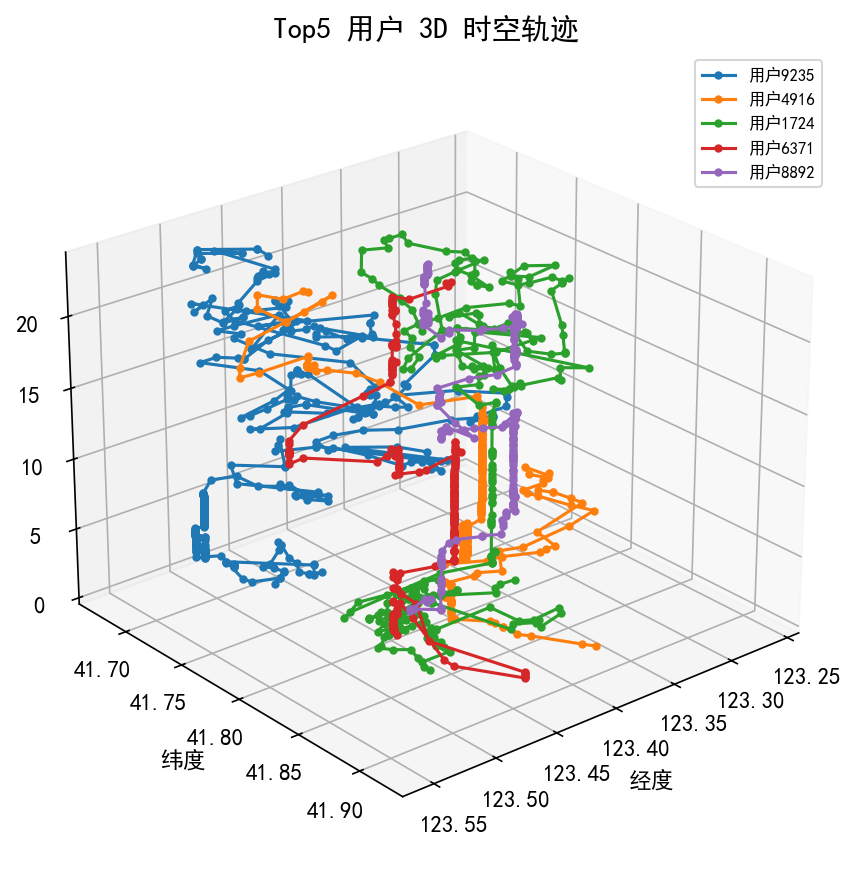
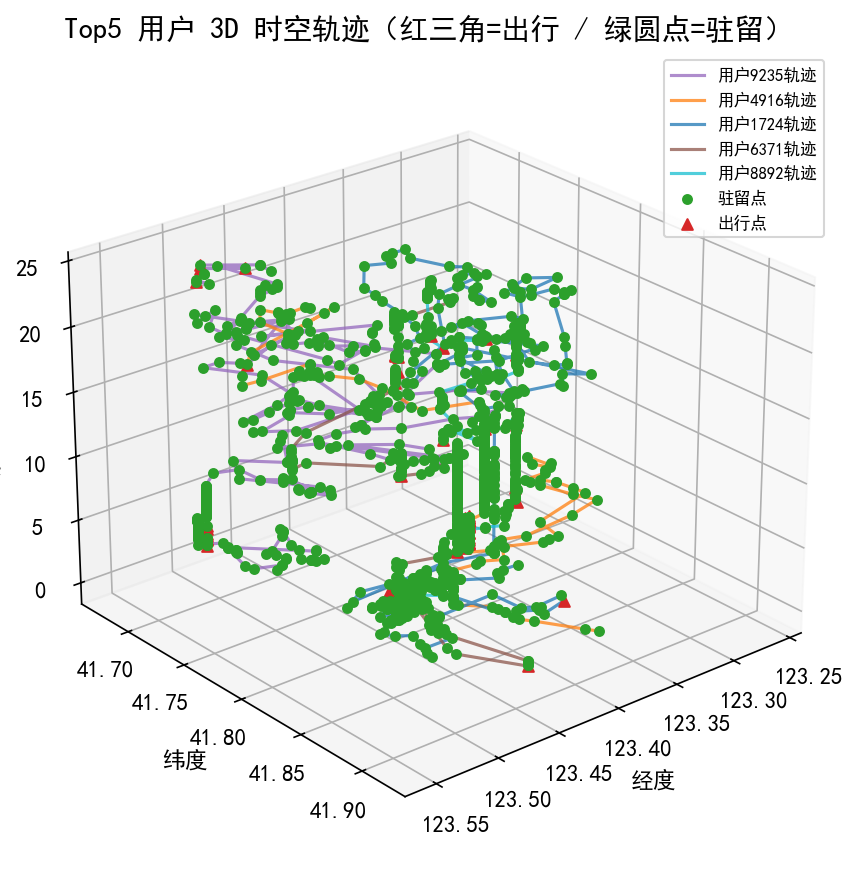
feat(图): 三张图对齐老师示例画法
图2 上下两格改为同轴叠画（出行量级只有驻留 1/24，另加右上角放大格看形状）；
图5 色标从按行各自归一化改回绝对人次，商圈间十几倍的差距不再被抹平；
图6 按标签分标记（红三角=出行/绿圆点=驻留），连线只按用户分色。

diff --git a/visualize.py b/visualize.py
@@ -6,10 +6,10 @@ visualize.py —— 六张结果可视化（课时 55~56）
 生成六张必交 PNG，外加两张附加 PNG。
 
   1 fig_stage3_pie    出行/驻留占比      —— 一天里移动点和停留点各占多少
-  2 fig_hour_line     24 小时上下两格    —— 出行/驻留随时间如何变化（含早晚高峰底纹）
+  2 fig_hour_line     24 小时同轴叠画    —— 出行/驻留随时间如何变化（含早晚高峰底纹）
   3 fig_purpose_bar   出行目的柱状       —— 停留都在干什么
   4 fig_mode_bar      出行方式柱状       —— 出行都怎么去
-  5 fig_heatmap       商圈×24h 热力矩阵  —— 哪里、什么时间最拥挤（色标按行归一化）
+  5 fig_heatmap       商圈×24h 热力矩阵  —— 哪里、什么时间最拥挤（按绝对人次上色）
   6 fig_3d_traj       Top5 用户 3D 轨迹  —— 个体一天的时空轨迹长什么样
 
   + fig_stage2_clusters 某用户的簇划分 + 阶段3 判定 —— 六张必交图里唯一没覆盖的
@@ -36,6 +36,8 @@ PURPOSE_COLORS = {"居住": BLUE, "购物": ORANGE, "旅游": PURPLE, "其他": 
 MODE_COLORS = {"地铁": RED, "公交": BLUE, "小汽车": ORANGE, "其他": GRAY}
 SCATTER_3D_TOP = 5          # 3D 轨迹画点数最多的前 5 个用户
 HEATMAP_TOP = 10            # 热力矩阵取峰值最高的前 10 个商圈
+# 3D 轨迹的连线配色：五个人的线要能一眼分开，且不能和「红=出行、绿=驻留」撞色
+USER_COLORS = ["#9467bd", "#ff7f0e", "#1f77b4", "#8c564b", "#17becf"]
 
 
 def _save(fig, path):
@@ -60,38 +62,53 @@ def plot_stage3_pie(label_df):
 
 
 def plot_hour_line(label_df):
-    """图2：24 小时上下两个子图。reindex(range(24)) 保证没有点的小时也显示为 0。
+    """图2：24 小时出行/驻留叠在同一张图上（对齐讲义示例的排版）。
 
-    驻留量级是出行的二十多倍，放进同一根轴出行会被压成贴底线；
-    用左右双轴并排则两条线看起来可比，读者会按交叉点误读「什么时候出行超过驻留」。
-    所以拆成上下两格、各自量级、共用横轴：形状可比，高度不可比。
+    我们的出行点只有驻留点的二十几分之一（45 : 1052），直接共轴会把红线压成
+    贴在横轴上的一条平线，看着像画坏了。所以共轴保留示例的样子，
+    另在右上角补一个小格把红线单独放大——小格只换纵轴刻度，不改任何数值。
+    左右双轴（两条线各自一套刻度）不用：那会让两条线看起来可比，
+    读者会按交叉点误读「什么时候出行超过了驻留」。
     """
     tmp = pd.DataFrame({"hour": _hour_of(label_df["time"]), "label": label_df["label"]}).dropna()
     hours = list(range(24))
     stay = tmp[tmp["label"] == 0].groupby("hour").size().reindex(hours, fill_value=0)
     travel = tmp[tmp["label"] == 1].groupby("hour").size().reindex(hours, fill_value=0)
 
-    fig, (ax, ax2) = plt.subplots(2, 1, figsize=(10, 7), sharex=True)
+    fig, ax = plt.subplots(figsize=(11, 6.5))
+    for start, end, name in config.PEAK_HOURS:         # 底纹只是标注，不参与判定
+        ax.axvspan(start, end, color="#1f77b4", alpha=.10)
     ax.plot(hours, stay.values, marker="o", color=GREEN, label="驻留点")
-    ax.fill_between(hours, stay.values, alpha=.12, color=GREEN)
-    ax.set_ylabel("驻留点数")
+    ax.plot(hours, travel.values, marker="^", color=RED, label="出行点")
+    ax.set_xlabel("小时")
+    ax.set_ylabel("点数")
+    ax.set_xticks(hours)
+    ax.set_ylim(0, stay.max() * 1.15)
     ax.legend(loc="upper left")
     ax.grid(alpha=.3)
 
-    ax2.plot(hours, travel.values, marker="s", color=RED, label="出行点")
-    ax2.fill_between(hours, travel.values, alpha=.12, color=RED)
-    ax2.set_ylabel("出行点数")
-    ax2.set_xlabel("小时")
-    ax2.set_xticks(hours)
-    ax2.legend(loc="upper left")
-    ax2.grid(alpha=.3)
-    for start, end, name in config.PEAK_HOURS:         # 底纹只是标注，不参与判定
-        ax2.axvspan(start, end, color="#1f77b4", alpha=.10)
-        ax2.text((start + end) / 2.0, ax2.get_ylim()[1] * .93, name,
-                 ha="center", fontsize=8, color="#555555")
+    # 示例图在这里标的是「早高峰」，但我们这份数据的出行最高点在 6 时、早晚高峰底纹里
+    # 出行并没有抬起来，照写「早高峰」就成了图上没有的结论，所以只标实测最高点。
+    peak_hour = int(travel.idxmax())
+    ax.annotate(f"出行最高 {peak_hour}时（{int(travel.max())} 点）",
+                (peak_hour, travel.max()),
+                xytext=(peak_hour + 1.5, travel.max() + stay.max() * .28),
+                arrowprops=dict(arrowstyle="->", color=RED, lw=1.2),
+                color=RED, fontsize=9)
 
-    fig.suptitle("24 小时出行 / 驻留分布（上下两格各自量级，只比形状不比高低）")
-    fig.tight_layout(rect=(0, 0, 1, 0.97))
+    inset = ax.inset_axes([0.55, 0.52, 0.42, 0.34])
+    for start, end, _ in config.PEAK_HOURS:
+        inset.axvspan(start, end, color="#1f77b4", alpha=.10)
+    inset.plot(hours, travel.values, marker="^", color=RED)
+    inset.fill_between(hours, travel.values, alpha=.15, color=RED)
+    inset.set_ylim(0, travel.max() * 1.25)
+    inset.set_xticks([0, 6, 12, 18, 23])
+    inset.set_title(f"出行点单独放大（0~{int(travel.max())}，只为看清形状）", fontsize=8)
+    inset.tick_params(labelsize=7)
+
+    fig.suptitle(f"24 小时出行 / 驻留点分布（同一坐标叠画：驻留量级约为出行的 "
+                 f"{stay.sum() / max(travel.sum(), 1):.0f} 倍）")
+    fig.tight_layout(rect=(0, 0, 1, 0.96))
     _save(fig, config.FIG_HOUR_LINE)
 
 
@@ -132,11 +149,13 @@ def plot_mode_bar(mode_df):
 
 
 def plot_heatmap(heat_df):
-    """图5：Top10 商圈 × 24 小时热力矩阵。窗口计数取该小时内的峰值。
+    """图5：Top10 商圈 × 24 小时热力矩阵，按绝对人次上色（对齐讲义示例）。
 
-    色标按行各自归一化：四个商圈量级差到两三个数量级（太原街峰值 2570、棋盘山只有 10），
-    共用一套色标会把小的那几行整体冲成同一色，日内起伏完全看不出来。
-    每行右侧标出该行真实峰值，绝对量级信息不丢。
+    窗口计数取该小时内的峰值：一小时内有 60 个十分钟窗口，取最大那个代表这一小时最挤的程度。
+    色标用的是**真实人次**而不是每行各自的最大值。之前按行归一化能把每个商圈的日内起伏都
+    看清，但代价是棋盘山（峰值 10）和中街（峰值 215）会画得和太原街（峰值 2570）一样红，
+    读者按颜色估人数会高估十几倍。示例图同样是绝对刻度，这里跟过来更诚实；
+    小商圈看不出的起伏，用每格里的数字标签补回。
     """
     t = pd.to_datetime(heat_df["time"])
     df = heat_df.assign(hour=t.dt.hour).dropna(subset=["hour"])
@@ -146,40 +165,54 @@ def plot_heatmap(heat_df):
     M = pivot.loc[top.index]
 
     values = M.to_numpy(dtype=float)
-    row_max = values.max(axis=1)
-    rel = values / np.maximum(row_max, 1)[:, None]        # 全零行保持 0，不出 NaN
-
-    fig, ax = plt.subplots(figsize=(11, 1 + 1.1 * len(M)))
-    im = ax.imshow(rel, aspect="auto", cmap="YlOrRd", vmin=0, vmax=1)
+    fig, ax = plt.subplots(figsize=(12, 1 + 1.1 * len(M)))
+    im = ax.imshow(values, aspect="auto", cmap="YlOrRd",
+                   vmin=0, vmax=values.max())
     ax.set_xticks(range(24), [f"{h}时" for h in range(24)], fontsize=8, rotation=60)
     ax.set_yticks(range(len(M)), M.index)
-    for i, v in enumerate(row_max):
-        ax.text(23.7, i, f"峰值 {int(v)}", va="center", fontsize=8)
+    for i, row in enumerate(values):
+        for j, v in enumerate(row):
+            if v > 0:
+                ax.text(j, i, int(v), ha="center", va="center", fontsize=6.5,
+                        color="white" if v > values.max() * .6 else "#333333")
+        ax.text(23.7, i, f"峰值 {int(row.max()):,}", va="center", fontsize=8)
     ax.set_xlim(-0.5, 26.5)
     ax.set_xlabel("小时")
-    ax.set_title(f"商圈 × 24 小时人流热力（{config.HEATMAP_WINDOW_SIZE} 分钟窗口峰值，色标按行归一化）")
-    fig.colorbar(im, ax=ax, label="占本商圈当日峰值比例", pad=0.02)
+    ax.set_title(f"商圈 × 24 小时人流热力（{config.HEATMAP_WINDOW_SIZE} 分钟窗口内的峰值人次）")
+    fig.colorbar(im, ax=ax, label="窗口累计人次", pad=0.02)
     _save(fig, config.FIG_HEATMAP)
 
 
 def plot_3d_traj(label_df):
-    """图6：Top5 用户 3D 时空轨迹。x/y 是位置、z 是时间，驻留表现为垂直上升的柱。"""
+    """图6：Top5 用户 3D 时空轨迹。x/y 是位置、z 是时间，驻留表现为垂直上升的柱。
+
+    点的形状按标签区分（对齐示例图）：红三角=出行、绿圆点=驻留；
+    连线只表示同一个用户的时间先后，用不同颜色分人。
+    """
     df = label_df.copy()
     df["_dt"] = pd.to_datetime(df["time"].astype(str), format="%Y%m%d%H%M%S", errors="coerce")
     df = df.dropna(subset=["_dt", "lon", "lat"])
+    df["z"] = df["_dt"].dt.hour + df["_dt"].dt.minute / 60.0
     top_users = df["imsi"].value_counts().head(SCATTER_3D_TOP).index
 
     fig = plt.figure(figsize=(9, 7))
     ax = fig.add_subplot(111, projection="3d")
     for i, u in enumerate(top_users):
         g = df[df["imsi"] == u].sort_values("_dt")
-        z = g["_dt"].dt.hour + g["_dt"].dt.minute / 60.0
-        ax.plot(g["lon"], g["lat"], z, marker="o", markersize=3,
-                color=plt.cm.tab10(i % 10), label=f"用户{str(u)[-4:]}")
+        ax.plot(g["lon"], g["lat"], g["z"], marker="", color=USER_COLORS[i % len(USER_COLORS)],
+                alpha=.75, label=f"用户{str(u)[-4:]}轨迹")
+        stay_g, travel_g = g[g["label"] == 0], g[g["label"] == 1]
+        ax.scatter(stay_g["lon"], stay_g["lat"], stay_g["z"], marker="o", s=18,
+                   color=GREEN, depthshade=False)
+        ax.scatter(travel_g["lon"], travel_g["lat"], travel_g["z"], marker="^", s=26,
+                   color=RED, depthshade=False)
+    # 图例先放两类点（示例图就是这个读法），再放各用户连线
+    ax.scatter([], [], marker="o", s=18, color=GREEN, label="驻留点")
+    ax.scatter([], [], marker="^", s=26, color=RED, label="出行点")
     ax.set_xlabel("经度")
     ax.set_ylabel("纬度")
     ax.set_zlabel("时间(小时)")
-    ax.set_title(f"Top{len(top_users)} 用户 3D 时空轨迹")
+    ax.set_title(f"Top{len(top_users)} 用户 3D 时空轨迹（红三角=出行 / 绿圆点=驻留）")
     ax.legend(fontsize=8)
     ax.view_init(elev=25, azim=50)
     _save(fig, config.FIG_3D_TRAJ)
